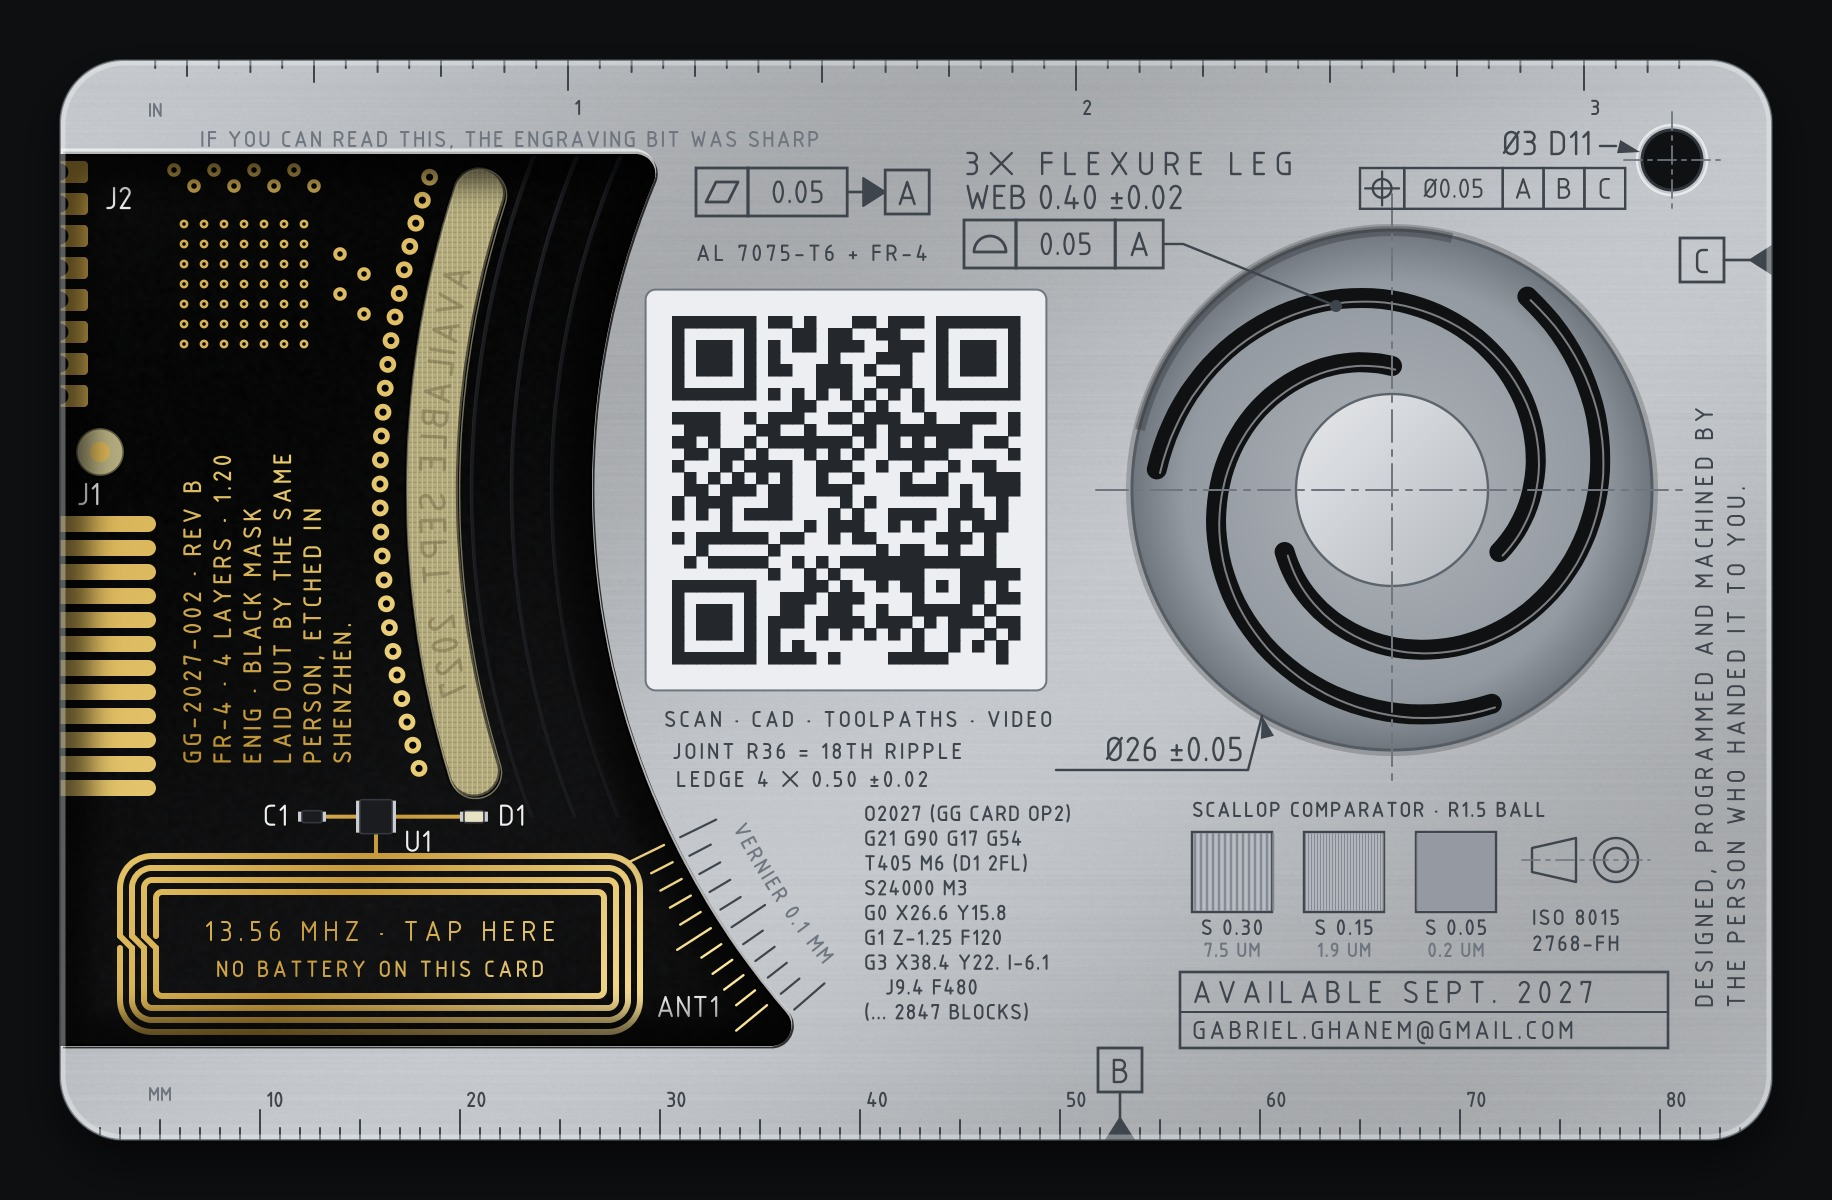
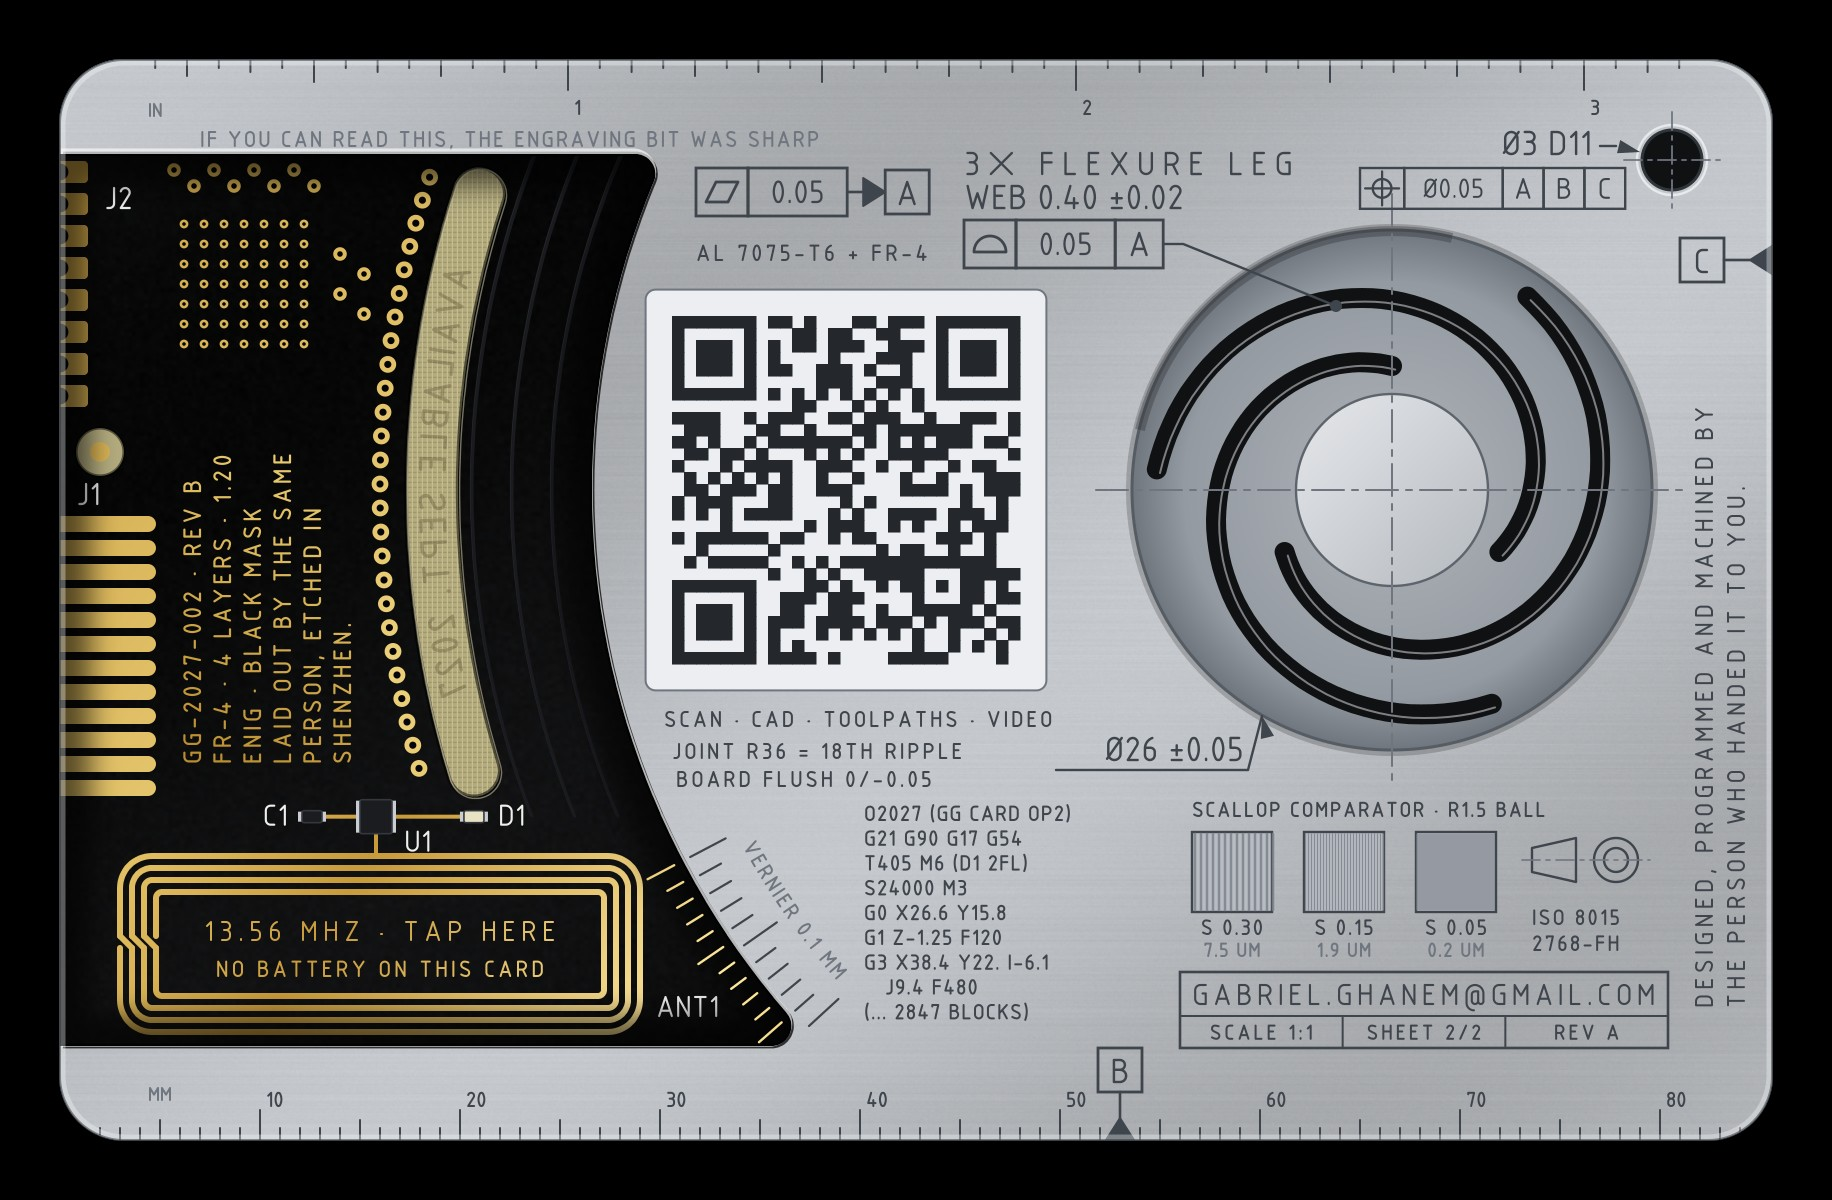
Aluminium verso: the availability line is gone, title block rebuilt around the address
"AVAILABLE SEPT. 2027" dated the card. The title block keeps its footprint: the
address takes the main row (0.95 capitals, set to the block's width), and the row under it
holds three cells that stay true, SCALE 1:1, SHEET 2/2 and REV A.

Verso engraving 353.5 mm2 (was 353.0), engraved model valid. The plain aluminium model,
the fit gauge and the recto are unchanged. The board is not touched: the line it carries
on layer 2 in the light slot is as ordered.

Claude-Session: https://claude.ai/code/session_01PLZk53NFWEnuPBUvBdDukh

Changed region(s): [[0.6534, 0.8017, 0.9023, 0.8633], [0.3422, 0.6475, 0.4667, 0.8633], [0.4356, 0.6475, 0.4978, 0.6783]]

diff --git a/design/hybrid/concept_b2.py b/design/hybrid/concept_b2.py
@@ -218,8 +218,14 @@ def verso():
     a.append(P(f"M{px-5},{py+6} h64", .8, ENG2, extra='stroke-dasharray="9 3 2 3"'))
     a.append(T(px, 432, "ISO 8015", 0.68, ENG, "start", 0.1, wt=1.0)); a.append(T(px, 445, "2768-FH", 0.68, ENG, "start", 0.1, wt=1.0))
     # title block
-    a.append(f'<rect x="560" y="456" width="244" height="38" fill="none" stroke="{ENG}" stroke-width="1.3"/>' + P("M560,476 H804", 1.0))
-    a.append(T(566, 471, "AVAILABLE SEPT. 2027", 1.0, ENG, "start", 0.25)); a.append(T(566, 489, "GABRIEL.GHANEM@GMAIL.COM", 0.8, ENG, "start", 0.15))
+    # Nothing dated is engraved in the aluminium, so the card does not go out of date: the address takes the main
+    # row, and the row under it holds what a drawing's title block holds and stays true (the card is its own drawing).
+    a.append(f'<rect x="560" y="456" width="244" height="38" fill="none" stroke="{ENG}" stroke-width="1.3"/>' + P("M560,478 H804", 1.0))
+    a.append(T(566, 472, "GABRIEL.GHANEM@GMAIL.COM", 0.95, ENG, "start", 0.2))
+    cw = 244 / 3
+    for i, cell in enumerate(["SCALE 1:1", "SHEET 2/2", "REV A"]):
+        if i: a.append(P(f"M{560 + i * cw:.2f},478 V494", 1.0))
+        a.append(T(560 + (i + .5) * cw, 489.4, cell, 0.66, ENG, "middle", 0.14, wt=1.0))
     # statement, set along the short edge
     a.append(f'<g transform="translate(826,474) rotate(-90)">' + T(0, 0, "DESIGNED, PROGRAMMED AND MACHINED BY", 0.8, ENG, "start", 0.2) + T(0, 16, "THE PERSON WHO HANDED IT TO YOU.", 0.8, ENG, "start", 0.2) + "</g>")
     return card(alu_image(None, seed=7), alu, pcb, "\n".join(b), "\n".join(a), extra_top=top)
